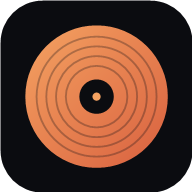
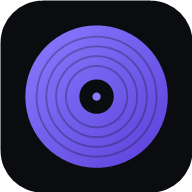
Add files via upload

diff --git a/css/app.css b/css/app.css
@@ -9,11 +9,13 @@
   --line: rgba(226, 232, 255, 0.08);
   --fg: #eef0f5;
   --fg-2: #a3a8b6;
-  --fg-3: #6b7181;
-  --accent: #f4a261;
-  --accent-ink: #1d1206;
+  --fg-3: #8a90a0;
+  --accent: #8b7cff;
+  --accent-hi: #a497ff;
+  --accent-deep: #5b3fd9;
+  --accent-ink: #0f0a2a;
   --danger: #ff7a70;
-  --dyn: 244, 162, 97; /* couleur de la pochette en cours (r, g, b) */
+  --dyn: 139, 124, 255; /* couleur de la pochette en cours (r, g, b) */
 
   --f-display: "Bricolage Grotesque", ui-sans-serif, system-ui, -apple-system, "Segoe UI", sans-serif;
   --f-body: "Figtree", ui-sans-serif, system-ui, -apple-system, "Segoe UI", Roboto, sans-serif;
@@ -40,7 +42,9 @@ body {
   -webkit-tap-highlight-color: transparent;
   overflow: hidden;
   overscroll-behavior: none;
+  caret-color: var(--accent);
 }
+* { scrollbar-width: thin; scrollbar-color: var(--surface-3) transparent; }
 button, input, select { font: inherit; color: inherit; }
 button { background: none; border: 0; padding: 0; cursor: pointer; }
 button:disabled { cursor: default; }
@@ -101,12 +105,9 @@ svg { width: 22px; height: 22px; display: block; flex: none; }
   font-variation-settings: "opsz" 96;
 }
 .h2 { font-family: var(--f-display); font-size: 24px; letter-spacing: -0.015em; margin: 0; }
-.eyebrow {
-  margin: 0;
-  font-size: 12px; font-weight: 700; letter-spacing: 0.12em; text-transform: uppercase;
-  color: var(--fg-3);
-}
 .sub { margin: 0; color: var(--fg-2); font-size: 14px; }
+.cap { display: inline-block; }
+.cap::first-letter { text-transform: uppercase; }
 .hint { color: var(--fg-3); font-size: 14px; margin: 4px 0 0; max-width: 60ch; }
 .count { color: var(--fg-3); font-size: 13px; margin: 0 0 6px 8px; font-variant-numeric: tabular-nums; }
 .ulink { color: var(--fg); font-weight: 600; }
@@ -125,7 +126,7 @@ svg { width: 22px; height: 22px; display: block; flex: none; }
 .btn:hover { background: var(--surface-3); }
 .btn:active { transform: scale(0.96); }
 .btn.primary { background: var(--accent); color: var(--accent-ink); }
-.btn.primary:hover { background: #f7b47c; }
+.btn.primary:hover { background: var(--accent-hi); }
 .btn.ghost { background: transparent; box-shadow: inset 0 0 0 1px var(--line); }
 .btn.danger { background: var(--danger); color: #1c0605; }
 .btn:disabled { opacity: 0.4; }
@@ -155,13 +156,17 @@ svg { width: 22px; height: 22px; display: block; flex: none; }
   background: var(--surface-3) center / cover no-repeat;
   display: grid; place-items: center; color: rgba(255, 255, 255, 0.55);
 }
-.cover.ph { background-image: linear-gradient(140deg, hsl(var(--h) 45% 34%), hsl(calc(var(--h) + 50) 50% 16%)); }
+/* Sans pochette : dégradé tonal dans la gamme violet-bleu, varié par titre. */
+.cover.ph {
+  --tone: calc(222 + var(--h) / 5);
+  background-image: linear-gradient(140deg, hsl(var(--tone) 42% 34%), hsl(calc(var(--tone) + 24) 48% 15%));
+}
 .cover.ph svg { width: 34%; height: 34%; }
 .cover.sm { width: 46px; height: 46px; border-radius: 8px; }
 .cover.round { border-radius: 50%; }
 .cover.mosaic { display: grid; grid-template-columns: 1fr 1fr; grid-template-rows: 1fr 1fr; }
 .cover.mosaic span { background: center / cover no-repeat; }
-.fav-cover { background: linear-gradient(140deg, #f4a261, #c2456b 70%, #5b2a86); color: #fff; }
+.fav-cover { background: linear-gradient(140deg, var(--accent-hi), var(--accent-deep) 62%, #24165f); color: #fff; }
 .fav-cover svg { width: 38%; height: 38%; }
 
 /* Barres animées sur le titre en cours */
@@ -285,9 +290,9 @@ body:not(.is-playing) .eq i { animation-play-state: paused; }
 .vinyl {
   position: relative; width: 168px; height: 168px; border-radius: 50%; margin-bottom: 18px;
   background:
-    radial-gradient(circle, var(--accent) 0 17%, #1a1208 17.5% 19%, transparent 19.5%),
+    radial-gradient(circle, var(--accent) 0 9%, var(--accent-deep) 9.5% 17%, var(--accent-ink) 17.5% 19%, transparent 19.5%),
     repeating-radial-gradient(circle, #16181f 0 2px, #0f1116 2px 4px);
-  box-shadow: 0 30px 60px -20px rgba(var(--dyn), 0.45), inset 0 0 0 1px var(--line);
+  box-shadow: 0 28px 50px -22px rgba(0, 0, 0, 0.85), inset 0 0 0 1px var(--line);
   animation: spin 9s linear infinite;
 }
 .vinyl::after {
@@ -390,7 +395,7 @@ body:not(.is-playing) .blob { animation-play-state: paused; }
 .fp-art { width: min(100%, 50vh, 460px); }
 .fp-art .cover {
   width: 100%; border-radius: 18px;
-  box-shadow: 0 40px 70px -24px rgba(0, 0, 0, 0.75), 0 30px 90px -30px rgba(var(--dyn), 0.55);
+  box-shadow: 0 40px 70px -24px rgba(0, 0, 0, 0.8), 0 0 0 1px var(--line);
   transform: scale(0.86);
   transition: transform 0.7s var(--ease), box-shadow 0.7s var(--ease);
 }
@@ -424,7 +429,7 @@ body:not(.is-playing) .blob { animation-play-state: paused; }
 .fp-ctrls .mid svg { width: 32px; height: 32px; }
 .fp-ctrls .big {
   width: 76px; height: 76px; background: var(--fg); color: var(--bg);
-  box-shadow: 0 14px 30px -10px rgba(var(--dyn), 0.6);
+  box-shadow: 0 14px 28px -12px rgba(0, 0, 0, 0.7);
 }
 .fp-ctrls .big:hover { background: #fff; color: var(--bg); transform: scale(1.04); }
 .fp-ctrls .big svg { width: 32px; height: 32px; }
@@ -517,7 +522,7 @@ body:not(.is-playing) .blob { animation-play-state: paused; }
   .brand { display: flex; align-items: center; gap: 10px; font-family: var(--f-display); font-weight: 800; font-size: 22px; letter-spacing: -0.02em; padding: 0 8px; }
   .brand-mark {
     width: 26px; height: 26px; border-radius: 50%;
-    background: radial-gradient(circle, var(--bg) 0 14%, var(--accent) 15% 38%, transparent 39%), repeating-radial-gradient(circle, #2a2e39 0 1.5px, #171a21 1.5px 3px);
+    background: radial-gradient(circle, var(--bg) 0 14%, var(--accent) 15% 38%, transparent 39%), repeating-radial-gradient(circle, var(--surface-3) 0 1.5px, var(--surface) 1.5px 3px);
   }
   .is-playing .brand-mark { animation: spin 4s linear infinite; }
   .side-nav { display: flex; flex-direction: column; gap: 2px; }

diff --git a/js/views.js b/js/views.js
@@ -126,9 +126,8 @@ function home() {
 
   return `
   <header class="page-h">
-    <p class="eyebrow">${esc(date)}</p>
     <h1 class="h1">${greeting()}</h1>
-    <p class="sub">${plural(all.length, 'titre', 'titres')} · ${fmtTotal(totalOf(all))} de musique sur cet appareil</p>
+    <p class="sub"><span class="cap">${esc(date)}</span> · ${plural(all.length, 'titre', 'titres')} · ${fmtTotal(totalOf(all))} de musique</p>
     <div class="actions">
       <button class="btn primary" data-action="play-list" data-list="all">${icon('play')}Tout lire</button>
       <button class="btn" data-action="shuffle-list" data-list="all">${icon('shuffle')}Aléatoire</button>
@@ -201,9 +200,8 @@ function albumView(key) {
   <header class="hero">
     ${coverHTML(a.tracks.find(t => lib.coverOf(t)) || a.tracks[0], 'hero-cover')}
     <div class="hero-txt">
-      <p class="eyebrow">Album</p>
       <h1 class="h1">${esc(a.name)}</h1>
-      <p class="sub"><a class="ulink" href="#/artist/${encodeURIComponent(a.artist)}">${esc(a.artist)}</a>${a.year ? ` · ${esc(a.year)}` : ''} · ${plural(a.tracks.length, 'titre', 'titres')} · ${fmtTotal(totalOf(a.tracks))}</p>
+      <p class="sub">Album de <a class="ulink" href="#/artist/${encodeURIComponent(a.artist)}">${esc(a.artist)}</a>${a.year ? ` · ${esc(a.year)}` : ''} · ${plural(a.tracks.length, 'titre', 'titres')} · ${fmtTotal(totalOf(a.tracks))}</p>
       ${playActions('album')}
     </div>
   </header>
@@ -219,9 +217,8 @@ function artistView(name) {
   <header class="hero">
     ${coverHTML(ts.find(t => lib.coverOf(t)) || ts[0], 'hero-cover round')}
     <div class="hero-txt">
-      <p class="eyebrow">Artiste</p>
       <h1 class="h1">${esc(ts[0].artist)}</h1>
-      <p class="sub">${plural(ts.length, 'titre', 'titres')}${albums ? ` · ${plural(albums, 'album', 'albums')}` : ''} · ${fmtTotal(totalOf(ts))}</p>
+      <p class="sub">Artiste · ${plural(ts.length, 'titre', 'titres')}${albums ? ` · ${plural(albums, 'album', 'albums')}` : ''} · ${fmtTotal(totalOf(ts))}</p>
       ${playActions('artist')}
     </div>
   </header>
@@ -259,9 +256,8 @@ function playlistView(id) {
   <header class="hero">
     ${mosaic(ts, 'hero-cover', p.name)}
     <div class="hero-txt">
-      <p class="eyebrow">Playlist</p>
       <h1 class="h1">${esc(p.name)}</h1>
-      <p class="sub">${plural(ts.length, 'titre', 'titres')}${ts.length ? ` · ${fmtTotal(totalOf(ts))}` : ''}</p>
+      <p class="sub">Playlist · ${plural(ts.length, 'titre', 'titres')}${ts.length ? ` · ${fmtTotal(totalOf(ts))}` : ''}</p>
       ${ts.length ? playActions('pl', tools) : `<div class="actions">${tools}</div>`}
     </div>
   </header>
@@ -275,7 +271,6 @@ function favoritesView() {
   <header class="hero">
     <div class="cover hero-cover fav-cover">${icon('heart-fill')}</div>
     <div class="hero-txt">
-      <p class="eyebrow">Collection</p>
       <h1 class="h1">Favoris</h1>
       <p class="sub">${plural(favs.length, 'titre', 'titres')}${favs.length ? ` · ${fmtTotal(totalOf(favs))}` : ''}</p>
       ${favs.length ? playActions('fav') : ''}

diff --git a/sw.js b/sw.js
@@ -1,6 +1,6 @@
 // Service worker : rend l'application installable et utilisable hors ligne.
 // Les musiques ne passent jamais par ici (elles sont lues depuis IndexedDB).
-const VERSION = 'sillon-v1';
+const VERSION = 'sillon-v2';
 const SHELL = [
   './', 'index.html', 'manifest.webmanifest', 'css/app.css',
   'js/app.js', 'js/views.js', 'js/player.js', 'js/library.js', 'js/metadata.js',

diff --git a/js/art.js b/js/art.js
@@ -47,4 +47,5 @@ function hsl(h, s, l) {
   return [f(0), f(8), f(4)].map(v => Math.round(v * 255));
 }
 
-export const placeholderRGB = t => hsl(hue(t?.album || t?.title || ''), 0.55, 0.58);
+// Même gamme violet-bleu que les pochettes de remplacement en CSS (.cover.ph).
+export const placeholderRGB = t => hsl(222 + hue(t?.album || t?.title || '') / 5, 0.6, 0.62);

diff --git a/README.md b/README.md
@@ -63,7 +63,7 @@ Pour une mise à jour du code : renvoie les fichiers modifiés sur GitHub (étap
 - **Menu ⋯ d'un titre** : lire ensuite, file d'attente, ajouter à une playlist, favori, lire depuis le début, supprimer.
 - **Mini-lecteur** en bas ; touche-le pour le **lecteur plein écran** (glisse vers le bas ou bouton retour pour le fermer).
 - **Aléatoire** et **répétition** (liste → titre → désactivé) dans le lecteur.
-- La position de chaque titre est mémorisée automatiquement (barre orange sous le titre).
+- La position de chaque titre est mémorisée automatiquement (barre violette sous le titre).
 - Écran verrouillé et notification : lecture/pause, précédent/suivant, barre de progression.
 - Raccourcis clavier (ordinateur) : Espace = lecture/pause, ←/→ = ±10 s, Maj+←/→ = titre précédent/suivant.
 - Ordinateur : glisser-déposer de fichiers ou d'un dossier entier.
